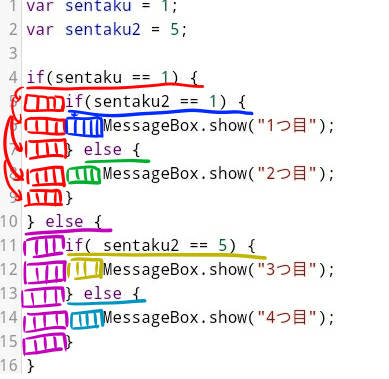
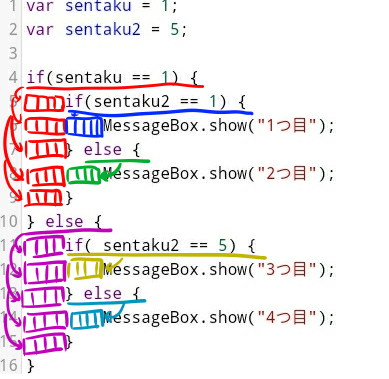
Mr Hyde was here …

diff --git a/ch4_5.md b/ch4_5.md
@@ -50,7 +50,7 @@ var questions = [];
 </script>
 
 
-第4.5回は総集編です（嘘）。やはり中盤では総集編が無いとね。
+第4.5回は総集編です。やはり中盤では総集編が無いとね。
 
 というのは冗談ですが、今回は質問について答えてみようと思います。短めです。
 頂いた質問は以下の3つです。
@@ -63,7 +63,7 @@ var questions = [];
 理解の助けにしていただければと。
 
 
-# なんで次の行で空欄入れるの？
+# 質問1: なんで次の行で空欄入れるの？
 
 たぶん第四回では`if`が登場したので、なんか以下みたいなコードの時に、
 
@@ -148,9 +148,9 @@ cw警察がいつ来るか、みたいなのに似ていて、「これは駄目
 この手のはすぐ宗教論争になるので、どれかルールを一つえいっと決めて、心を無にしてそれに従うのがオススメです。
 また、ルールと言っても別に見やすくないな、と思ったら気分で破ってOKです。
 
-空白は最近のエディタなら勝手に入れるので、それに従うのが良いと思います。
+まず最優先としては、空白は最近のエディタなら勝手に入れるので、それに従うのが良いと思います。
 
-そういうエディタの機能が無い場合などの為に、簡単な目安を書いておきます。
+以下では、そういうエディタの機能が無い場合などの為に、次善の策として簡単な目安を書いておきます。
 ただ、割とどうでも良い事の割には言葉にするとなんだかややこしいので、分からなくてもあまり気にせず進んで、気になった時に見直すくらいでもいいかもしれません。
 
 簡単には以下のようなルールとしておきます。
@@ -161,11 +161,15 @@ cw警察がいつ来るか、みたいなのに似ていて、「これは駄目
 
 くらいでいいんじゃないでしょうか。
 
-前2つはまぁいいでしょう。例えば先程の例の場合、こんな感じになっています。(空白を四角で描いてみました）。
+三番目はちょっと難しいので次にまわして、ここでは前2つを見てみましょう。
+例えば先程の例の場合、こんな感じになっています。(空白を四角で描いてみました）。
 
 ![インデントの図解](ch45_indent.png)
 
 こんな風に、カッコを開く時に次の行から4つ空白を足して、閉じる都度空白を4つ削る。
+なんかあんま図にしてもわかり易くないですね…
+
+まぁこんな感じです。
 
 ### 引数の所の空白ルール
 
@@ -201,7 +205,7 @@ MessageBox.yesNo("ついに念願のアイスソードを手に入れたぞ",
 まぁ所詮見た目の問題なので、良く分からなかったら気にしなくてもいいです。
 自分が分かればいいんで。
 
-# 改行のタイミングはどこ？
+# 質問2: 改行のタイミングはどこ？
 
 これはこちらがちゃんと質問を理解しているのか自信が無いですが…  
 たぶん上のyesNoの途中での改行とかが良く分からないな、と思ったのだと思っておきます。  
@@ -395,7 +399,7 @@ if (a == 123) {
 最初のうちは他人のコードを真似して同じ感じで入れておきましょう。
 
 
-# `{`と`}`って何？
+# 質問3: `{`と`}`って何？
 
 なんか`{`とかって入れなくちゃいけないらしいが意味が分からない、という事ですかね。
 まず最初に答えを言っておくと、`{`と`}`で、`if`とか`else`の有効範囲を示します。
